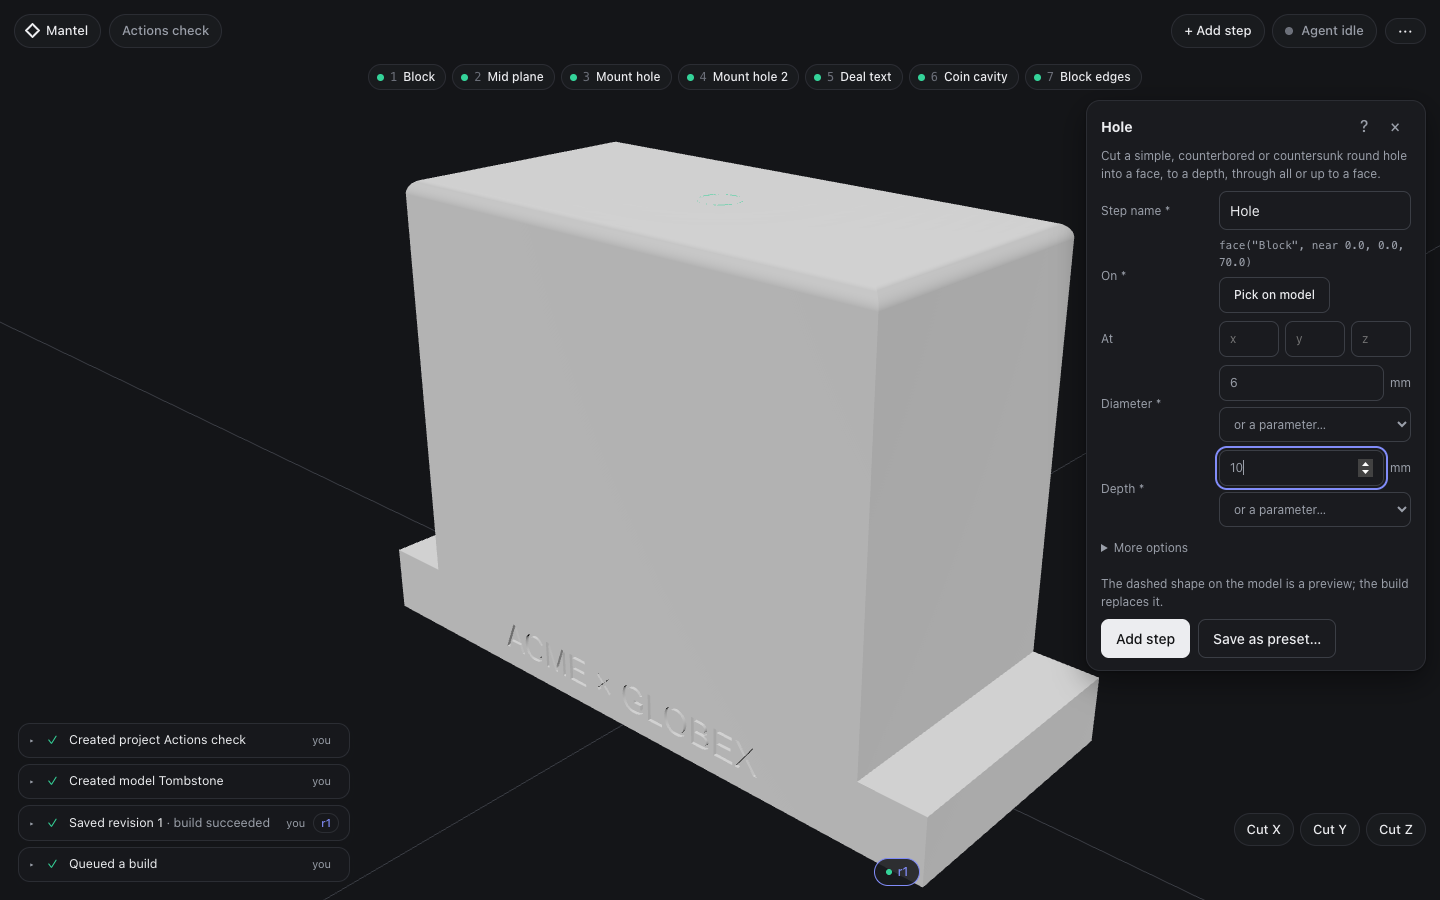
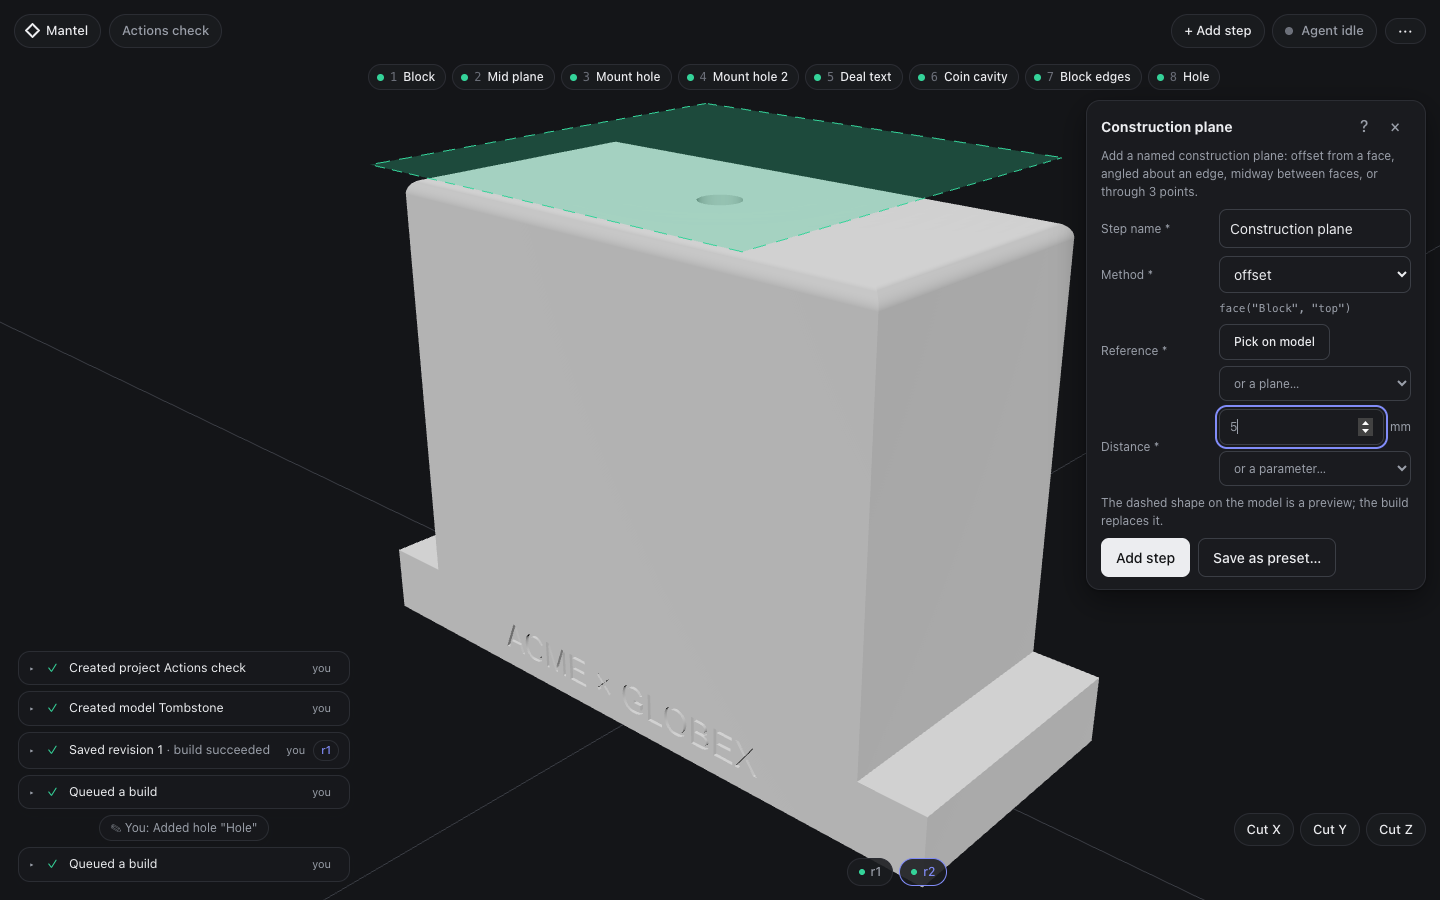
Fix choice placeholders and the phone action menu; document the actions interface

diff --git a/src/web/ActionForm.tsx b/src/web/ActionForm.tsx
@@ -113,8 +113,11 @@ export function ActionForm(props: {
       return (
         <select
           value={String(value ?? f.default ?? "")}
-          onChange={(e) => set(f.name, e.target.value)}
+          onChange={(e) => set(f.name, e.target.value || undefined)}
         >
+          {value === undefined && f.default === undefined && (
+            <option value="">Choose…</option>
+          )}
           {f.options?.map((o) => (
             <option key={o}>{o}</option>
           ))}

diff --git a/src/web/style.css b/src/web/style.css
@@ -1501,6 +1501,14 @@ textarea.code.editor.short {
     right: 10px;
     top: 132px;
   }
+  .toolbar-menu {
+    position: fixed;
+    left: 10px;
+    right: 10px;
+    top: 60px;
+    width: auto;
+    max-height: 70vh;
+  }
   .action-form {
     left: 10px !important;
     right: 10px;

diff --git a/README.md b/README.md
@@ -4,7 +4,7 @@ An AI-native CAD workspace, built for the United AI deal-toy service project (th
 
 ## Status
 
-Alpha at [Mantel](https://unitedai-deal-toy.ivan27chen.workers.dev). Anyone can create an account with Google; new accounts get the read-only demo, and the owner decides what else each person may do through editable access levels. People create their own API keys in Settings to connect MCP clients. The implemented slice includes project and model creation, immutable Python revisions, queued native OCCT builds, STEP/STL/GLB exports, draft manufacturing documents, versioned skills and registered tool controls. Agent sessions are shown live: the agent's prompt, its progress updates and every tool call stream into a chat-style panel beside the 3D model. Clicking a part shows its declared dimensions; changing one saves and rebuilds a new revision. Models can be written as a list of named modeling steps (body, plane, extrude, hole, fillet, chamfer, text, combine, move and custom); every action describes itself to the agent, each build reports every step's health, and a timeline under the model shows it and lets the owner turn steps off and on or view the model as of any step (see [examples/deal_toy_steps.py](examples/deal_toy_steps.py)). Custom Python steps can be saved as versioned, self-describing actions once a check build proves their example, and any action's common inputs can be saved as presets. Every build also records exact measurements from OCCT: click a face to read its type, area, normal, diameter or thickness, shift-click a second face or part to measure between them, and cut a section along X, Y or Z with each part's cut filled in its own shade. The record reports deal-toy facts (how far the model can tip, how close an embedded object comes to the outside, declared dimensions against their parameters), agents read it with `inspect_get`, and they point at faces for the team with `view_highlight`. Team members can leave notes that agents receive on their next tool call. The interface has light and dark themes. It is not a complete manufacturing automation service. See [validation](docs/validation.md) for tested paths and deployment status, and [roadmap](docs/roadmap.md) for remaining capabilities.
+Alpha at [Mantel](https://unitedai-deal-toy.ivan27chen.workers.dev). Anyone can create an account with Google; new accounts get the read-only demo, and the owner decides what else each person may do through editable access levels. People create their own API keys in Settings to connect MCP clients. The implemented slice includes project and model creation, immutable Python revisions, queued native OCCT builds, STEP/STL/GLB exports, draft manufacturing documents, versioned skills and registered tool controls. Agent sessions are shown live: the agent's prompt, its progress updates and every tool call stream into a chat-style panel beside the 3D model. Clicking a part shows its declared dimensions; changing one saves and rebuilds a new revision. Models can be written as a list of named modeling steps (body, plane, extrude, hole, fillet, chamfer, text, combine, move and custom); every action describes itself to the agent, each build reports every step's health, and a timeline under the model shows it and lets the owner turn steps off and on or view the model as of any step (see [examples/deal_toy_steps.py](examples/deal_toy_steps.py)). Custom Python steps can be saved as versioned, self-describing actions once a check build proves their example, and any action's common inputs can be saved as presets. Every build also records exact measurements from OCCT: click a face to read its type, area, normal, diameter or thickness, shift-click a second face or part to measure between them, and cut a section along X, Y or Z with each part's cut filled in its own shade. The record reports deal-toy facts (how far the model can tip, how close an embedded object comes to the outside, declared dimensions against their parameters), agents read it with `inspect_get`, and they point at faces for the team with `view_highlight`. People use the same actions as the agent: "+ Add step" lists the catalog and saved actions. Each opens a form generated from the action's described inputs. Clicking the model fills a face field with a stable reference, a dashed preview shows the result before it is added, and presets fill or save inputs. The timeline edits, renames, removes and reorders steps, and the agent's model summary says what the person has selected. Team members can leave notes that agents receive on their next tool call. The interface has light and dark themes. It is not a complete manufacturing automation service. See [validation](docs/validation.md) for tested paths and deployment status, and [roadmap](docs/roadmap.md) for remaining capabilities.
 
 ![Live workspace with agent activity and a selected part](docs/images/workspace-light.png)
 

diff --git a/docs/validation.md b/docs/validation.md
@@ -193,3 +193,14 @@ Branch `feat/inspect-core`, implementing `docs/superpowers/plans/2026-11-06-insp
 - Engine tests compare record values with analytic ones: box faces and thicknesses, holes (diameter, depth, through), fillet radii, pair distance and overlap, and a box's tip angle `atan(5/20)`, all to 1e-6. The deal-toy fixture reports the coin's embed wall as 1.5 mm, the engraving as 0.3 mm (not matching `ENGRAVE_D`) and a density-weighted tip angle of 17.07°. Removing one density switches the result to uniform density.
 - Inspection adds 0.02 s to the bridge example (24 faces), 0.48 s to the 288-face steps example (66 KiB record) and 0.02 s to the inspection fixture, measured in the CAD image. Not yet measured on the 49-part production demo model.
 - In the app (local `wrangler dev` with the CAD container), clicking the block front showed 7200.00 mm², normal (0, −1, 0) and thickness 1.50 mm. A cut along X showed the coin's section 1.5 mm behind the front face, with each part in its own shade (`docs/images/workspace-inspect.png`). Two picks showed the between row. `view_highlight` turned the face amber in the live viewer with the agent's message (`docs/images/workspace-agent-highlight.png`). Checked at 390 px and in both themes.
+
+## Actions interface — 2026-11-06
+
+Branch `feat/actions-interface`, stacked on `feat/inspect-core`. Local evidence; not deployed.
+
+- In the app (local `wrangler dev` with the CAD container, on the deal-toy steps fixture):
+  - "+ Add step" → Hole: a pick on the block top filled `on`, diameter 6 and depth 10 showed a dashed ghost cylinder, and "Add step" built a new revision with the hole `ok`.
+  - Construction plane: after the engine started naming faces, a pick gave `face("Block", "top")`, and distance 5 showed a ghost plane 5 mm above (`docs/images/workspace-actions.png`). It was saved as the preset "Five above" and added as step 9, `ok`.
+  - Timeline: "Edit" changed the hole's diameter to 8 in revision 4, and dragging the Hole chip onto the plane's chip moved it after the plane in revision 5.
+  - A click stored the owner's selection for the agent's summary.
+  - At 390 px the page did not scroll sideways, and the action menu and form fit the screen.
